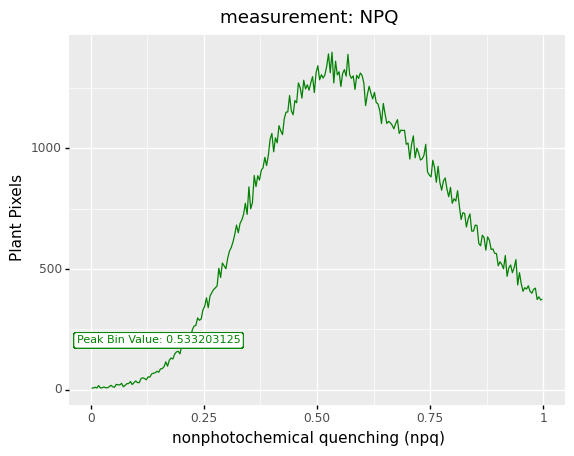
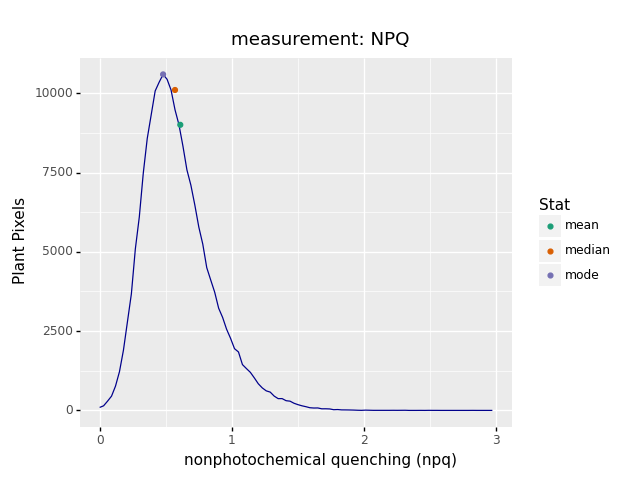
Add min/max range options
* Adds min/max bin control
* Adds mode measurement
* Updates histogram plot

diff --git a/plantcv/plantcv/photosynthesis/analyze_npq.py b/plantcv/plantcv/photosynthesis/analyze_npq.py
@@ -3,7 +3,8 @@
 import os
 import numpy as np
 import pandas as pd
-from plotnine import ggplot, aes, geom_line, geom_label
+from math import ceil, floor
+from plotnine import ggplot, aes, geom_line, geom_point, theme, scale_color_brewer
 from plotnine.labels import labs
 from plantcv.plantcv import fatal_error
 from plantcv.plantcv._debug import _debug
@@ -11,7 +12,7 @@ from plantcv.plantcv import params
 from plantcv.plantcv import outputs
 
 
-def analyze_npq(ps_da_light, ps_da_dark, mask, measurement_labels=None, label="default"):
+def analyze_npq(ps_da_light, ps_da_dark, mask, min_bin=0, max_bin="auto", measurement_labels=None, label="default"):
     """
     Calculate and analyze non-photochemical quenching estimates from fluorescence image data.
 
@@ -19,7 +20,8 @@ def analyze_npq(ps_da_light, ps_da_dark, mask, measurement_labels=None, label="d
     ps_da_light        = photosynthesis xarray DataArray for which to compute npq
     ps_da_dark         = photosynthesis xarray DataArray that contains frame_label `Fm`
     mask               = mask of plant (binary, single channel)
-    bins               = number of bins for the histogram (1 to 256 for 8-bit; 1 to 65,536 for 16-bit; default is 256)
+    min_bin            = minimum bin value ("auto" or user input minimum value - must be an integer)
+    max_bin            = maximum bin value ("auto" or user input maximum value - must be an integer)
     measurement_labels = labels for each measurement in ps_da_light, modifies the variable name of observations recorded
     label              = optional label parameter, modifies the entity name of observations recorded
 
@@ -30,7 +32,8 @@ def analyze_npq(ps_da_light, ps_da_dark, mask, measurement_labels=None, label="d
     :param ps_da_light: xarray.core.dataarray.DataArray
     :param ps_da_dark: xarray.core.dataarray.DataArray
     :param mask: numpy.ndarray
-    :param bins: int
+    :param min_bin: int, str
+    :param max_bin: int, str
     :param measurement_labels: list
     :param label: str
     :return npq: xarray.core.dataarray.DataArray
@@ -47,6 +50,12 @@ def analyze_npq(ps_da_light, ps_da_dark, mask, measurement_labels=None, label="d
 
     fm = ps_da_dark.sel(measurement='t0', frame_label='Fm').where(mask > 0, other=0)
     npq = ps_da_light.sel(frame_label='Fmp').groupby('measurement', squeeze=False).map(_calc_npq, fm=fm)
+
+    # Auto calculate max_bin if set
+    if type(max_bin) is str and (max_bin.upper() == "AUTO"):
+        max_bin = ceil(np.nanmax(npq))  # Auto bins will detect the max value to use for calculating labels/bins
+    if type(min_bin) is str and (min_bin.upper() == "AUTO"):
+        min_bin = floor(np.nanmin(npq))  # Auto bins will detect the min value to use for calculating labels/bins
 
     # compute observations to store in Outputs
     npq_mean = npq.where(npq > 0).groupby('measurement').mean(['x', 'y']).values
@@ -71,8 +80,13 @@ def analyze_npq(ps_da_light, ps_da_dark, mask, measurement_labels=None, label="d
                                 method='plantcv.plantcv.photosynthesis.analyze_npq', scale='none', datatype=float,
                                 value=float(npq_max[i]), label='none')
 
-        hist_df, hist_fig = _create_histogram(npq.isel({'measurement': i}).values, mlabel)
+        hist_df, hist_fig, npq_mode = _create_histogram(npq.isel({'measurement': i}).values, mlabel,
+                                                        outputs.observations[label], min_bin, max_bin)
 
+        # mode value
+        outputs.add_observation(sample=label, variable=f"npq_mode_{mlabel}", trait="mode npq value",
+                                method='plantcv.plantcv.photosynthesis.analyze_npq', scale='none', datatype=float,
+                                value=float(npq_mode), label='none')
         # hist frequencies
         outputs.add_observation(sample=label, variable=f"npq_hist_{mlabel}", trait="frequencies",
                                 method='plantcv.plantcv.photosynthesis.analyze_npq', scale='none', datatype=list,
@@ -114,40 +128,65 @@ def _calc_npq(fmp, fm):
     return sub
 
 
-def _create_histogram(npq_img, mlabel):
+def _create_histogram(npq_img, mlabel, obs, min_bin, max_bin):
     """
     Compute histogram of NPQ
 
     Inputs:
     npq_img     = numpy array of npq
+    mlabel      = measurement label
+    obs         = PlantCV observations used to retrieve statistics
+    min_bin     = minimum bin value
+    max_bin     = maximum bin value
 
     Returns:
     hist_fig  = Histogram of efficiency estimate
     npq_img   = DataArray of efficiency estimate values
 
     :param npq_img: numpy.ndarray
+    :param mlabel: str
+    :param obs: dict
+    :param min_bin: int
+    :param max_bin: int
     :return hist_df: pandas.DataFrame
     :return hist_fig: plotnine.ggplot.ggplot
+    :return npq_mode: float
     """
 
     # Calculate the histogram of NPQ non-zero values
-    npq_hist, npq_bins = np.histogram(npq_img[np.where(npq_img > 0)], 100, range=(0, 1))
+    npq_hist, npq_bins = np.histogram(npq_img[np.where(npq_img > 0)], 100, range=(min_bin, max_bin))
     # npq_bins is a bins + 1 length list of bin endpoints, so we need to calculate bin midpoints so that
     # the we have a one-to-one list of x (NPQ) and y (frequency) values.
     # To do this we add half the bin width to each lower bin edge x-value
-    midpoints = npq_bins[:-1] + 0.5 * np.diff(npq_bins)
+    # midpoints = npq_bins[:-1] + 0.5 * np.diff(npq_bins)
 
     # Calculate which non-zero bin has the maximum Fv/Fm value
-    max_bin = midpoints[np.argmax(npq_hist)]
+    npq_mode = npq_bins[np.argmax(npq_hist)]
 
     # Create a dataframe
-    hist_df = pd.DataFrame({'Plant Pixels': npq_hist, mlabel: midpoints})
+    hist_df = pd.DataFrame({'Plant Pixels': npq_hist, mlabel: npq_bins[:-1]})
+
+    # Round values for plotting
+    bin_width = np.around((max_bin - min_bin) / 100, decimals=2)
+    bins = np.around(npq_bins, decimals=2)
+    round_mean = np.around(obs[f"npq_mean_{mlabel}"]["value"], decimals=2)
+    round_median = np.around(obs[f"npq_median_{mlabel}"]["value"], decimals=2)
+    round_mode = np.around(npq_mode, decimals=2)
+    mean_index = bins.tolist().index(np.around(round_mean - (round_mean % bin_width), decimals=2))
+    median_index = bins.tolist().index(np.around(round_median - (round_median % bin_width), decimals=2))
+    mode_index = np.argmax(npq_hist)
+    # Create a dataframe for the statistics
+    stats_df = pd.DataFrame({'Plant Pixels': [npq_hist[mean_index], npq_hist[median_index], npq_hist[mode_index]],
+                             mlabel: [round_mean, round_median, round_mode],
+                             "Stat": ["mean", "median", "mode"]})
 
     # Make the histogram figure using plotnine
     hist_fig = (ggplot(data=hist_df, mapping=aes(x=mlabel, y='Plant Pixels'))
-                + geom_line(show_legend=True, color="green")
-                + geom_label(label=f"Peak Bin Value: {str(max_bin)}", x=.15, y=205, size=8, color="green")
+                + geom_line(show_legend=True, color="darkblue")
+                + geom_point(data=stats_df, mapping=aes(color='Stat'))
                 + labs(title=f"measurement: {mlabel}",
-                       x='nonphotochemical quenching (npq)'))
+                       x='nonphotochemical quenching (npq)')
+                + theme(subplots_adjust={"right": 0.8})
+                + scale_color_brewer(type="qual", palette=2))
 
-    return hist_df, hist_fig
+    return hist_df, hist_fig, npq_mode

diff --git a/tests/tests.py b/tests/tests.py
@@ -4923,7 +4923,8 @@ def test_plantcv_photosynthesis_analyze_npq(mda_dark, mda_light, mlabels):
     # Test with debug = None
     pcv.params.debug = None
     _ = pcv.photosynthesis.analyze_npq(ps_da_light=mda_light, ps_da_dark=mda_dark,
-                                       mask=ps_mask(), measurement_labels=mlabels, label="prefix")
+                                       mask=ps_mask(), measurement_labels=mlabels, label="prefix",
+                                       min_bin="auto", max_bin="auto")
     if mlabels is not None:
         med = pcv.outputs.observations["prefix"]["npq_median_Fq/Fm"]["value"]
         pcv.outputs.clear()

diff --git a/docs/photosynthesis_analyze_npq.md b/docs/photosynthesis_analyze_npq.md
@@ -3,7 +3,7 @@
 Extract estimates of the nonphotochemical quenching (NPQ) of Photosystem II (PSII). 
 Calculates (Fm/Fm') - 1 data from a masked region. The photosynthesis subpackage is dependent on a PSII_Data instance file structure as created by photosynthesis.read_* files.
 
-**plantcv.photosynthesis.analyze_npq**(*ps_da_light, ps_da_dark, mask, measurement_labels=None, label="default"*)
+**plantcv.photosynthesis.analyze_npq**(*ps_da_light, ps_da_dark, mask, min_bin=0, max_bin="auto", measurement_labels=None, label="default"*)
 
 **returns** Histogram of NPQ values and an NPQ image
 
@@ -11,7 +11,8 @@ Calculates (Fm/Fm') - 1 data from a masked region. The photosynthesis subpackage
     - ps_da_light - photosynthesis xarray DataArray for which to compute npq
     - ps_da_dark - photosynthesis xarray DataArray that contains frame_label `Fm`
     - mask - binary mask of selected contours
-      would alter this number (default bins=256)
+    - min_bin - minimum bin value ("auto" or user input minimum value - must be an integer). (default `min_bin=0`)
+    - max_bin - maximum bin value ("auto" or user input maximum value - must be an integer). (default `max_bin="auto"`)
     - measurement_labels - list of label(s) for each measurement in `ps_da_light`, modifies the variable name of observations recorded
     - label - Optional label parameter, modifies the entity name of observations recorded. (default `label="default"`)
 - **Context:**
@@ -32,9 +33,9 @@ from plantcv import plantcv as pcv
 pcv.params.debug = "print"
 
 # Analyze NPQ   
-npq, npq_hist = pcv.photosynthesis.analyze_npq(ps_da_light=ps.lightadapted, ps_da_dark=ps.darkadapted, mask=kept_mask, label="fluor")
+npq, npq_hist = pcv.photosynthesis.analyze_npq(ps_da_light=ps.lightadapted, ps_da_dark=ps.darkadapted, mask=kept_mask)
 
-# Access data stored out from fluor_NPQ
+# Access the NPQ median value
 # the default measurement label for cropreporter data is t1
 npq_median = pcv.outputs.observations['fluor']['npq_median_t1']['value']
 

diff --git a/docs/photosynthesis_analyze_yii.md b/docs/photosynthesis_analyze_yii.md
@@ -37,16 +37,13 @@ from plantcv import plantcv as pcv
 pcv.params.debug = "print"
 
 # photosynthesis read functions will read fluroescence data into predefined data format that includes at least attribute 'darkadapted'
-ps = pcv.photosynthesis.read_cropreporter(filename = "mydata.inf")
+ps = pcv.photosynthesis.read_cropreporter(filename="mydata.inf")
 
 # Analyze Fv/Fm    
-fvfm, fvfm_hist = pcv.photosynthesis.analyze_yii(ps_da=ps.darkadapted, 
-mask=kept_mask, 
-measurement_labels=["Fv/Fm"],
-label="fluor")
+fvfm, fvfm_hist = pcv.photosynthesis.analyze_yii(ps_da=ps.darkadapted, mask=kept_mask, label="fluor")
 
-# Access data stored out from fluor_fvfm
-fvfm_median = pcv.outputs.observations['fluor']['yii_median_Fv/Fm']['value']
+# Access Fv/Fm median value
+fvfm_median = pcv.outputs.observations['fluor']['yii_median_t0']['value']
 
 # Pseudocolor the Fv/Fm image
 fvfm_cmap = pcv.visualize.pseudocolor(gray_img=fvfm, mask=kept_mask, min_value=0, max_value=1, title="Fv/Fm")
@@ -73,12 +70,10 @@ from plantcv import plantcv as pcv
 pcv.params.debug = "print"
 
 # Analyze Fq'/Fm'    
-fqfm, fqfm_hist = pcv.photosynthesis.analyze_yii(ps=ps.lightadapted, mask=kept_mask,
-measurement_labels=["Fq'/Fm'"],
-label="fluor")
+fqfm, fqfm_hist = pcv.photosynthesis.analyze_yii(ps=ps.lightadapted, mask=kept_mask, label="fluor")
 
-# Access data stored out from fluor_fvfm
-fqfm_median = pcv.outputs.observations['fluor']["yii_median_Fq'/Fm'"]['value']
+# Access Fq'/Fm' median value
+fqfm_median = pcv.outputs.observations['fluor']["yii_median_t1"]['value']
 
 fqfm_cmap = pcv.visualize.pseudocolor(gray_img=fqfm, mask=kept_mask, min_value=0, max_value=1, title="Fq'/Fm'")
 

diff --git a/docs/updating.md b/docs/updating.md
@@ -583,7 +583,7 @@ pages for more details on the input and output variable types.
 #### plantcv.photosynthesis.analyze_npq
 
 * pre v4.0: NA
-* post v4.0: npq, hist_fig = **plantcv.photosynthesis.analyze_npq**(*ps_da_light, ps_da_dark, mask, measurement_labels=None, label="default"*)
+* post v4.0: npq, hist_fig = **plantcv.photosynthesis.analyze_npq**(*ps_da_light, ps_da_dark, mask, min_bin=0, max_bin="auto", measurement_labels=None, label="default"*)
 
 #### plantcv.photosynthesis.read_cropreporter
 
